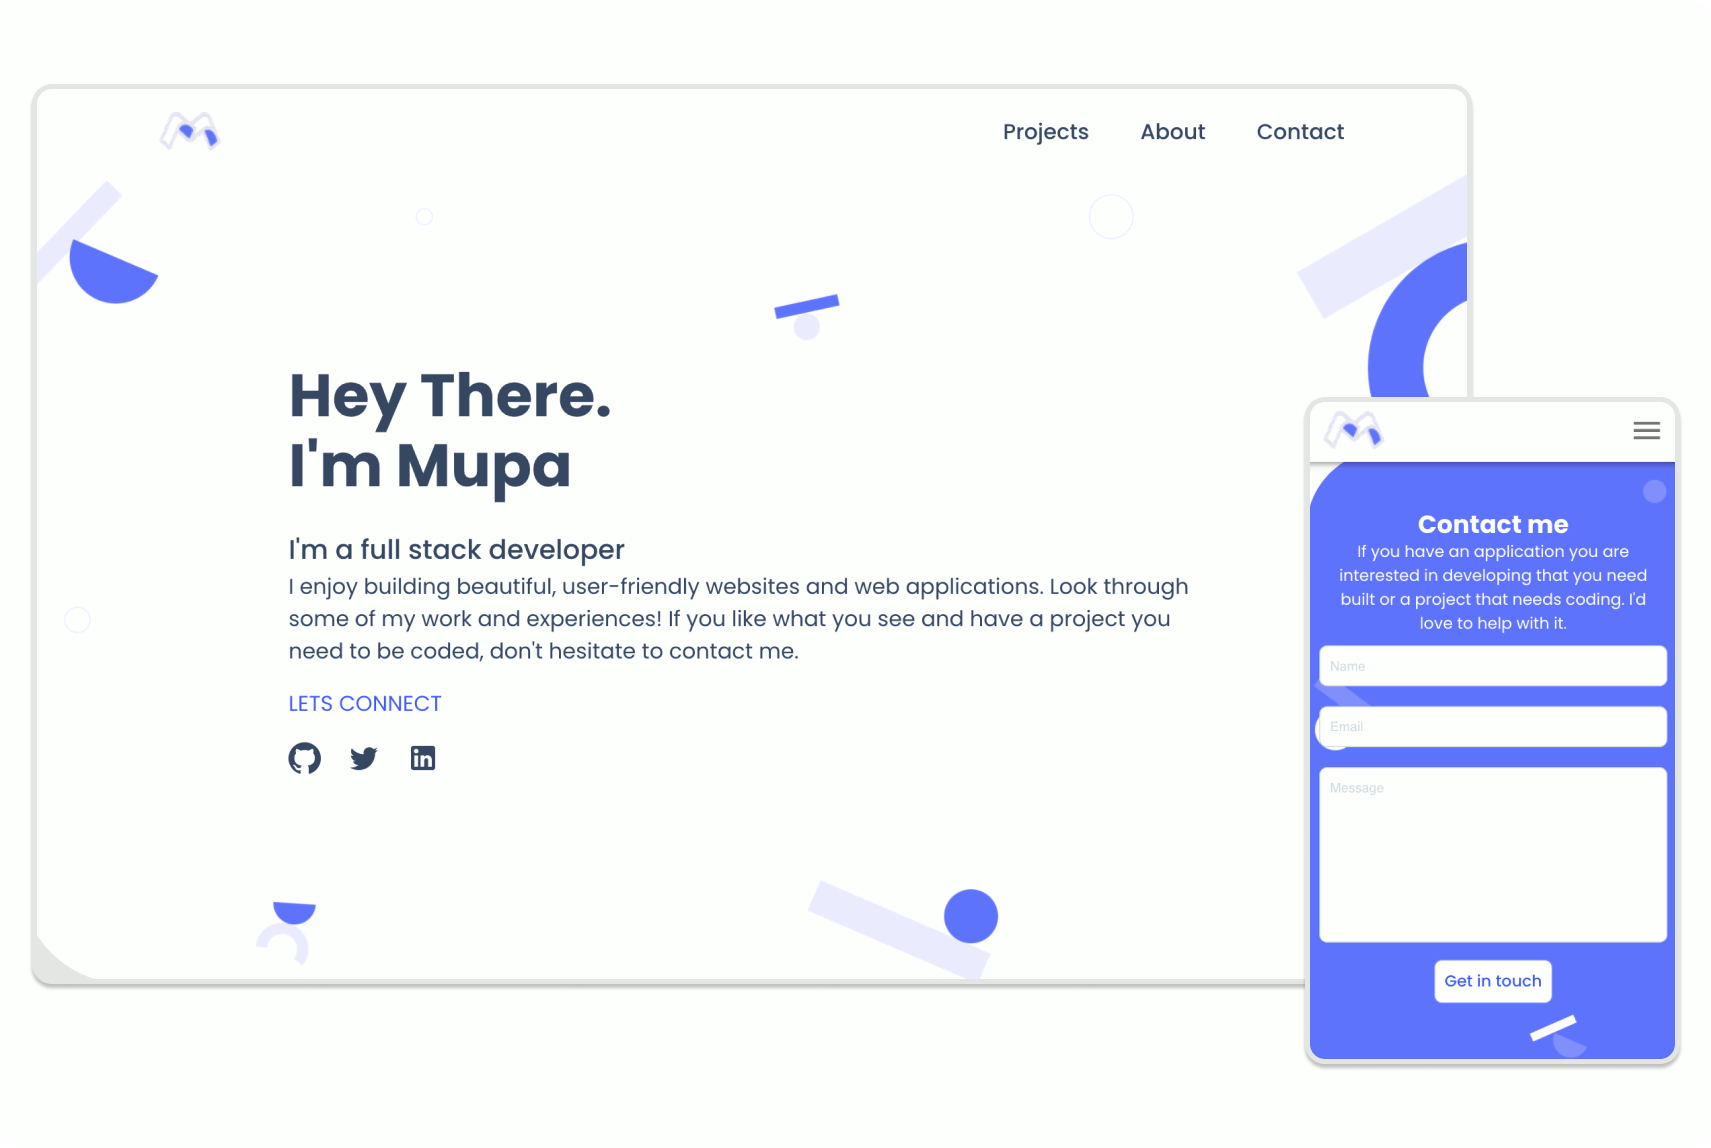
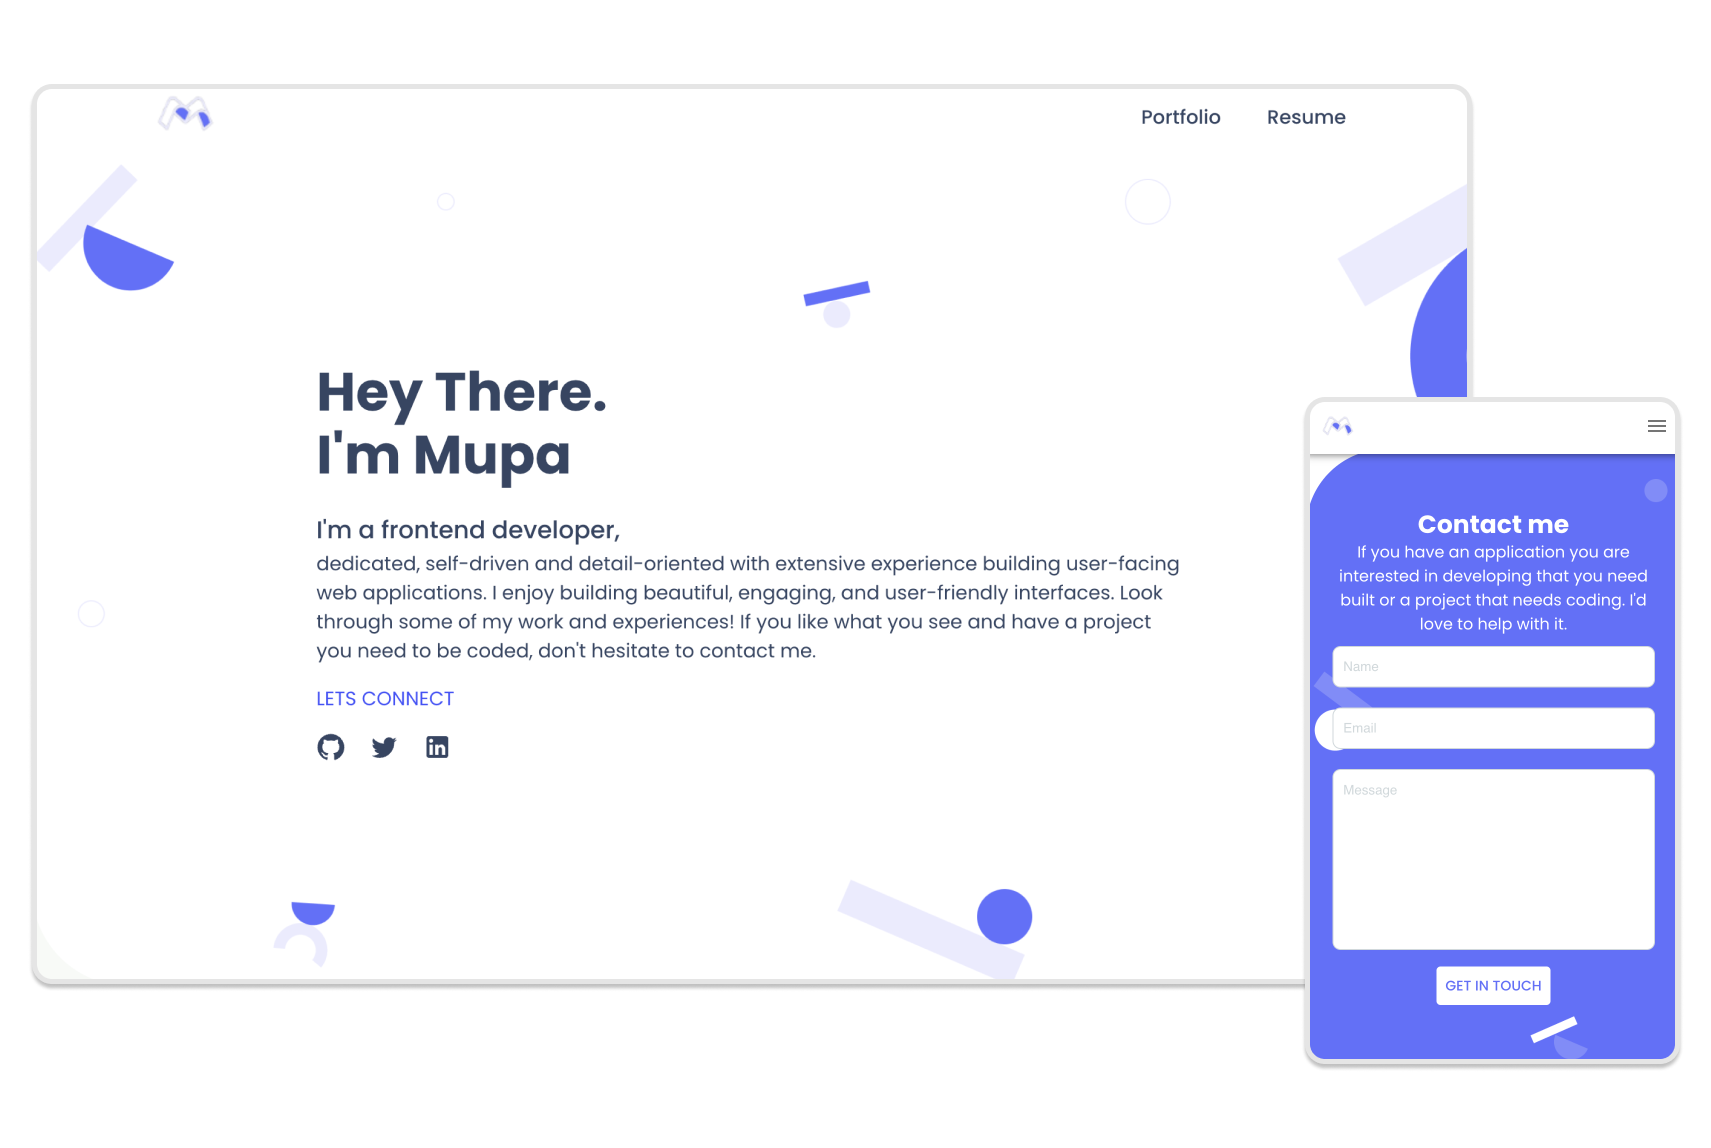
update layout

diff --git a/src/components/Landing/Landing.tsx b/src/components/Landing/Landing.tsx
@@ -24,12 +24,9 @@ const Landing: React.FC = ({ props }: IComponentProps) => {
         </Typography>
         <Typography variant='body1' gutterBottom>
           dedicated, self-driven and detail-oriented
-          with extensive experience building user-facing applications.
-          <br />
-          I enjoy building beautiful, engaging, and user-friendly user interfaces.
-          Look through some of my work and experiences!
-          <br />
-          If you like what you see and have a project you need to be coded,
+          with extensive experience building user-facing web applications.
+          I enjoy building beautiful, engaging, and user-friendly interfaces.
+          Look through some of my work and experiences! If you like what you see and have a project you need to be coded,
           don&apos;t hesitate to contact me.
         </Typography>
         <SocialIcons />

diff --git a/src/components/ProjectCard/ProjectCard.styles.ts b/src/components/ProjectCard/ProjectCard.styles.ts
@@ -6,8 +6,11 @@ const useStyles = makeStyles<Theme>((theme: Theme) => ({
     maxWidth: '1440px',
     margin: 'auto',
     flexGrow: 1,
-    padding: '50px 50px 0 50px',
-    '@media (max-width: 480px)': {
+    padding: '50px 106px 0 106px',
+    '@media (max-width: 1440)': {
+      padding: '50px 50px 0 50px',
+    },
+    '@media (max-width: 900px)': {
       padding: '10px 10px 0 10px',
     },
   },

diff --git a/src/pages/Resume/Resume.styles.ts b/src/pages/Resume/Resume.styles.ts
@@ -10,10 +10,11 @@ const useStyles = makeStyles(() => ({
   },
   download: {
     position: 'fixed',
-    top: 12,
-    right: 60,
+    top: 8,
+    right: 55,
     zIndex: 10000,
     '@media (min-width: 900px)': {
+      top: 12,
       right: 300,
     },
   },

diff --git a/src/components/About/About.styles.ts b/src/components/About/About.styles.ts
@@ -14,7 +14,7 @@ const useStyles = makeStyles<Theme>((theme: Theme) => ({
   details: {
     padding: 0,
     '@media (max-width: 1440px)': {
-      padding: '0 32px',
+      padding: '0 89px',
     },
     '@media (max-width: 900px)': {
       padding: '0 15px',

diff --git a/src/components/Landing/Landing.styles.ts b/src/components/Landing/Landing.styles.ts
@@ -17,7 +17,7 @@ const useStyles = makeStyles(() => ({
     padding: '15px',
   },
   landingInfo: {
-    maxWidth: '1440px',
+    maxWidth: '900px',
     padding: '0 220px',
 
     '@media (max-width: 900px)': {

diff --git a/src/components/Projects/Projects.styles.ts b/src/components/Projects/Projects.styles.ts
@@ -11,7 +11,6 @@ export const useStyles = makeStyles(() => ({
     fontSize: '0.75em',
     borderRadius: '8px',
   },
-
 }));
 
 export default useStyles;
